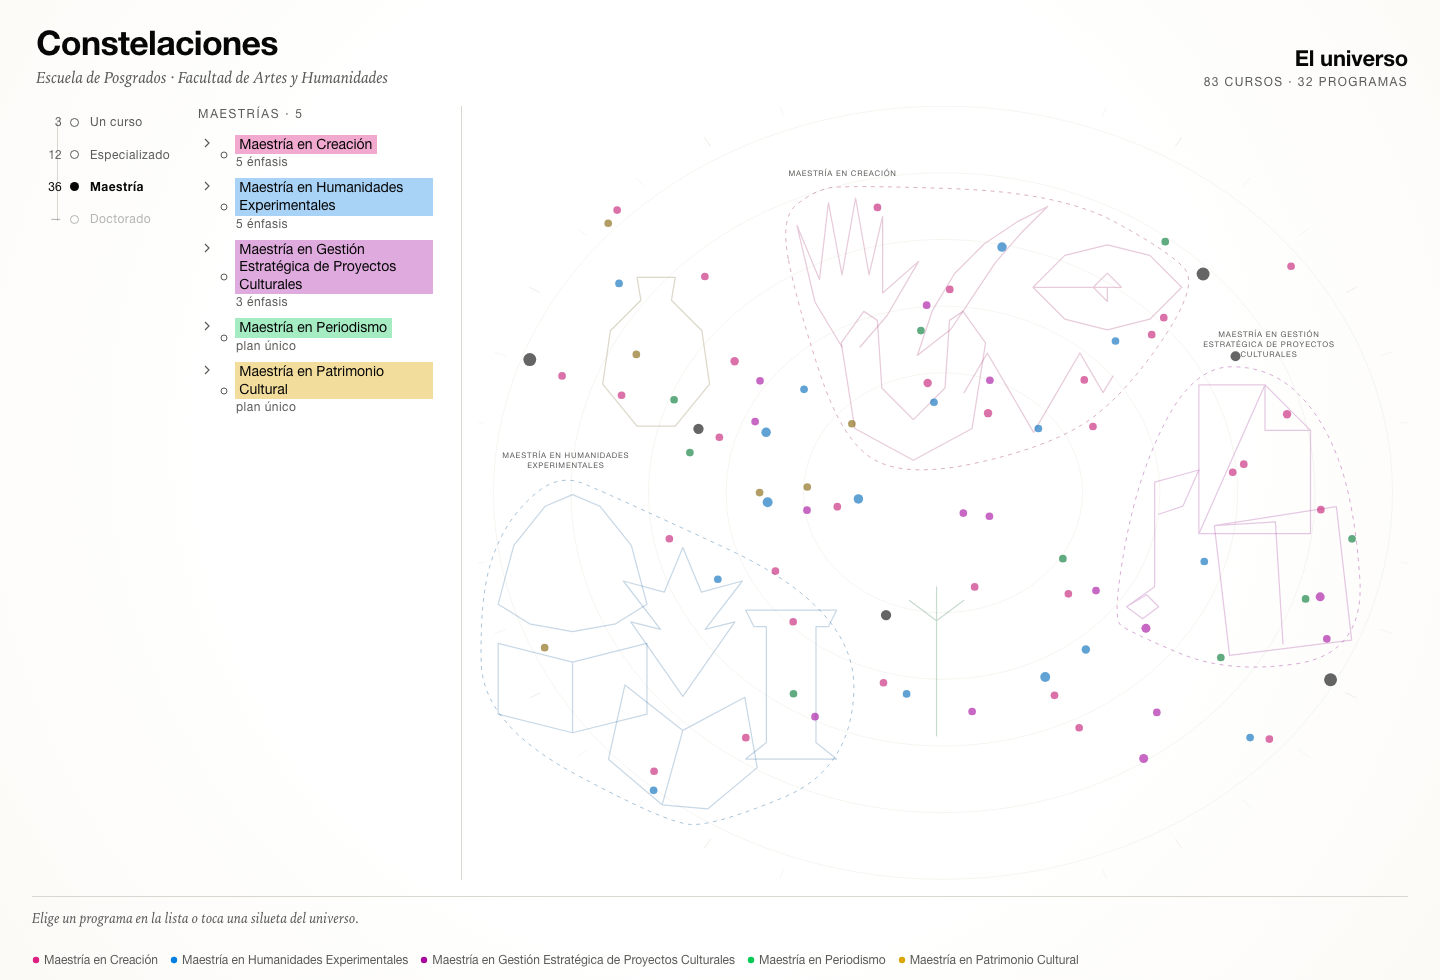
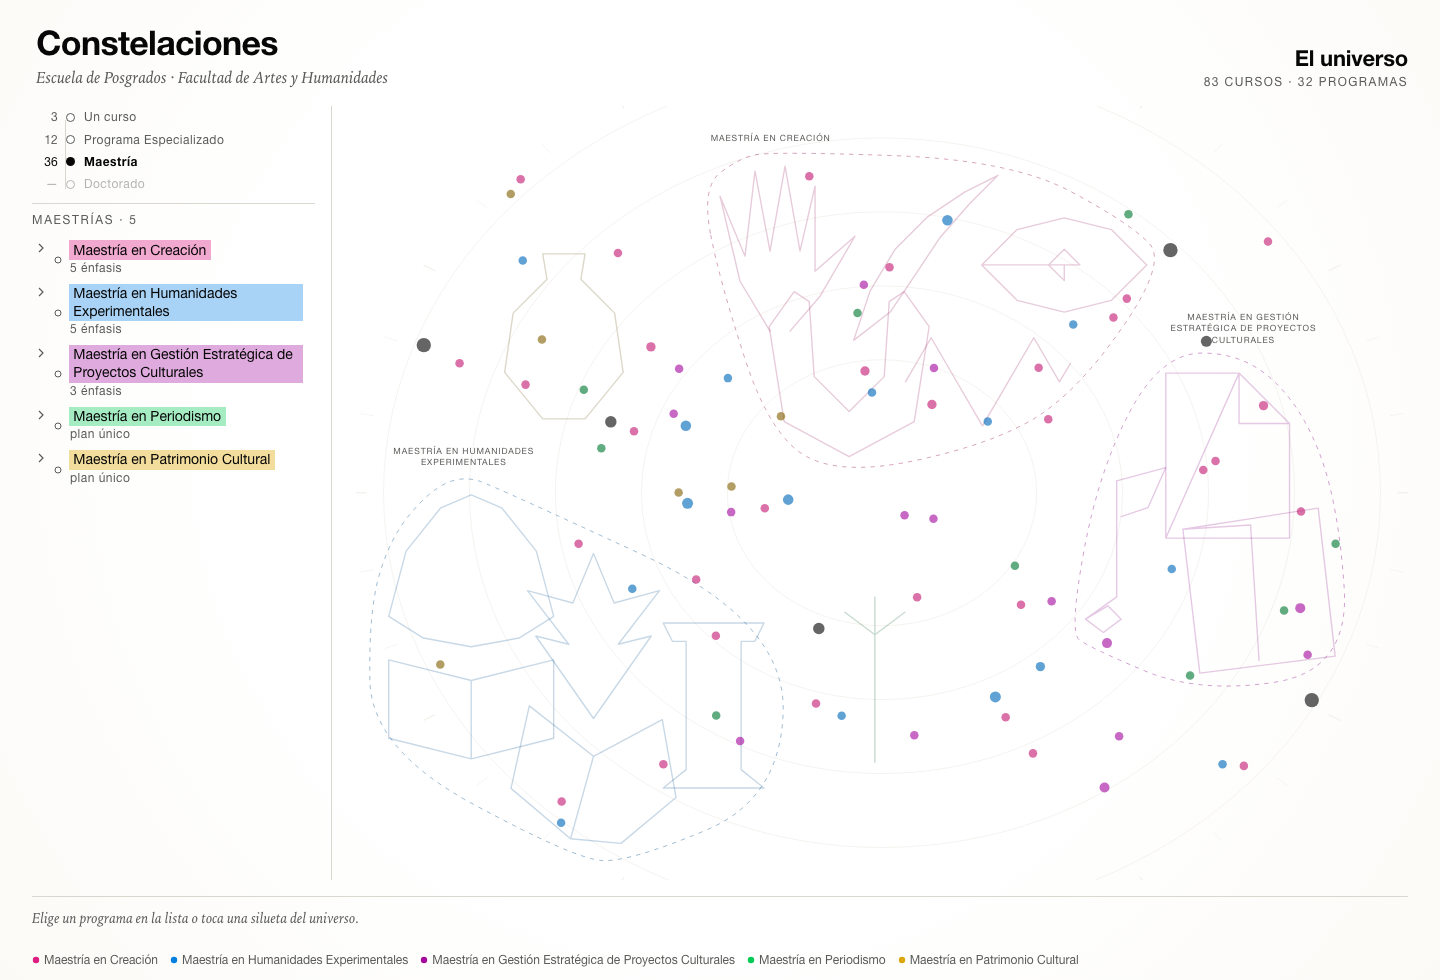
Escala y lista en la misma columna
- la barra de escala pasa arriba del selector, dentro de su columna
- el selector recupera 300 px y el cielo gana 190 px de ancho
- docs y capturas

diff --git a/src/App.svelte b/src/App.svelte
@@ -123,11 +123,8 @@
   </header>
 
   <div class="cuerpo">
-    <aside class="rail">
-      <Rail {nivel} programaId={seleccion[0] ?? null} onNivel={cambiarNivel} />
-    </aside>
-
     <aside class="lateral">
+      <Rail {nivel} programaId={seleccion[0] ?? null} onNivel={cambiarNivel} />
       <ProgramPicker {nivel} {seleccion} {cursoAbierto} onToggle={alternar} onCurso={abrirCurso} />
     </aside>
 
@@ -255,18 +252,23 @@
 
   .cuerpo {
     display: grid;
-    grid-template-columns: var(--w-rail) var(--w-picker) 1fr;
-    gap: var(--sp-4);
+    grid-template-columns: var(--w-picker) 1fr;
+    gap: var(--sp-6);
     min-height: 0;
   }
 
   .cuerpo:has(.lateral-derecho) {
-    grid-template-columns: var(--w-rail) var(--w-picker) 1fr var(--w-sheet);
+    grid-template-columns: var(--w-picker) 1fr var(--w-sheet);
   }
 
-  .rail {
+  /* la escala y la lista comparten columna: escala arriba, lista debajo */
+  .lateral {
+    display: flex;
+    flex-direction: column;
     min-height: 0;
-    padding-right: var(--sp-2);
+    border-right: 1px solid var(--c-rule);
+    padding-right: var(--sp-4);
+    gap: var(--sp-2);
   }
 
   .lateral-derecho {

diff --git a/src/lib/components/Rail.svelte b/src/lib/components/Rail.svelte
@@ -38,7 +38,9 @@
     justify-content: flex-start;
     gap: 0;
     position: relative;
-    padding-left: 2px;
+    padding: 0 0 var(--sp-2) 2px;
+    border-bottom: 1px solid var(--c-rule);
+    flex: 0 0 auto;
   }
 
   /* la línea que une los pasos: es una escala, no una decoración */
@@ -56,8 +58,8 @@
     display: grid;
     grid-template-columns: 24px 10px 1fr;
     align-items: center;
-    gap: var(--sp-1);
-    padding: var(--sp-2) 0;
+    gap: var(--sp-2);
+    padding: 3px 0;
     text-align: left;
     color: var(--c-ink-3);
     position: relative;

diff --git a/src/lib/components/ProgramPicker.svelte b/src/lib/components/ProgramPicker.svelte
@@ -197,9 +197,8 @@
     display: flex;
     flex-direction: column;
     min-height: 0;
-    height: 100%;
-    padding-right: var(--sp-4);
-    border-right: 1px solid var(--c-rule);
+    flex: 1 1 auto;
+    padding-right: 0;
   }
 
   .cabecera {

diff --git a/src/styles/tokens.css b/src/styles/tokens.css
@@ -97,8 +97,7 @@
   --ease: cubic-bezier(0.2, 0, 0, 1);
 
   /* Medidas de interfaz */
-  --w-picker: 252px;
-  --w-rail: 190px;
+  --w-picker: 300px;
   --w-sheet: 360px;
   --h-toolbar: 52px;
 }

diff --git a/docs/design-system.md b/docs/design-system.md
@@ -164,7 +164,7 @@ radio: el cielo de fondo no compite con la constelación encendida.
 | `SilhouetteSelector` | `siluetas`, `onElegir` | normal, hover, foco | Sin selección, las quince siluetas repartidas por el cielo, sin pisarse. Trazo al 22 %; al pasar el cursor, 85 % y el nombre. Zona de contacto: relleno transparente + círculo de 46 px. |
 | `Star` | `course`, `x`, `y`, `r`, `state` | normal, hover, foco, atenuado | `role="button"`, `aria-label` completo y foco por teclado. Al pasar el cursor: halo y rótulo fijo, y la fila del plan se resalta. Fuera de selección: punto sólido al 22 %. |
 
-| `Rail` | `nivel`, `onNivel`, `programaId` | 4 pasos | Barra de escala vertical: crédito, punto y nombre. El paso activo se rellena; el deshabilitado (doctorado) se atenúa al 45 %. |
+| `Rail` | `nivel`, `onNivel`, `programaId` | 4 pasos | Barra de escala vertical, arriba de la lista y dentro de su misma columna: crédito, punto y nombre sobre un eje continuo. El paso activo se rellena; el deshabilitado (doctorado) se atenúa al 45 %. |
 | `PlanPanel` | `programaId`, `resaltado`, `onHover`, `onElegir` | plan, familia | Panel derecho: el plan en orden cronológico, con glifo, nombre completo, código y créditos. En una maestría, plan común más sus énfasis. |
 | `CoursePanel` | `cursoId`, `onCerrar`, `onElegir` | curso | Detalle de un curso: código, créditos y la escalera «Cuenta para» (especializado → énfasis → maestría) y los planes que lo incluyen. |
 | `Composer` | `figures`, `nucleus` | figura, familia | Compone la escena; puro, sin DOM. |
@@ -180,8 +180,8 @@ radio: el cielo de fondo no compite con la constelación encendida.
 ┌──────────────────────────────────────────────────────────────┐
 │ Toolbar · modo · alternativas · leyenda                      │
 ├──────────────┬───────────────────────────────┬───────────────┤
-│ Rail │ ProgramPicker│ SkyStage                │ PlanPanel     │
-│ 190  │ 252 px       │ flex, mín. 480 px       │ 340 px        │
+│ Escala + lista          │ SkyStage          │ PlanPanel     │
+│ 300 px (escala arriba)  │ flex, mín. 480 px │ 340 px        │
 └──────────────┴───────────────────────────────┴───────────────┘
 ```
 

diff --git a/docs/diary.md b/docs/diary.md
@@ -254,3 +254,12 @@ maestría en el universo— y el detalle se queda con la forma desnuda.
 
 **La barra recupera el nombre.** «Especializado» era una abreviación, y ya acordamos que el nivel no
 se abrevia. La barra pasa a 190 px para que quepa «Programa Especializado».
+
+---
+
+## 2026-10-30 · Una sola columna
+
+**La escala y la lista comparten columna.** La barra pasa arriba y la lista debajo, separadas por una
+regla. Se recuperan 190 px de ancho para el cielo sin tocar ninguna tipografía. *Por qué:* la escala
+y la lista son la misma navegación —qué mirar y a qué resolución— y estaban ocupando dos columnas
+para decir una cosa.
